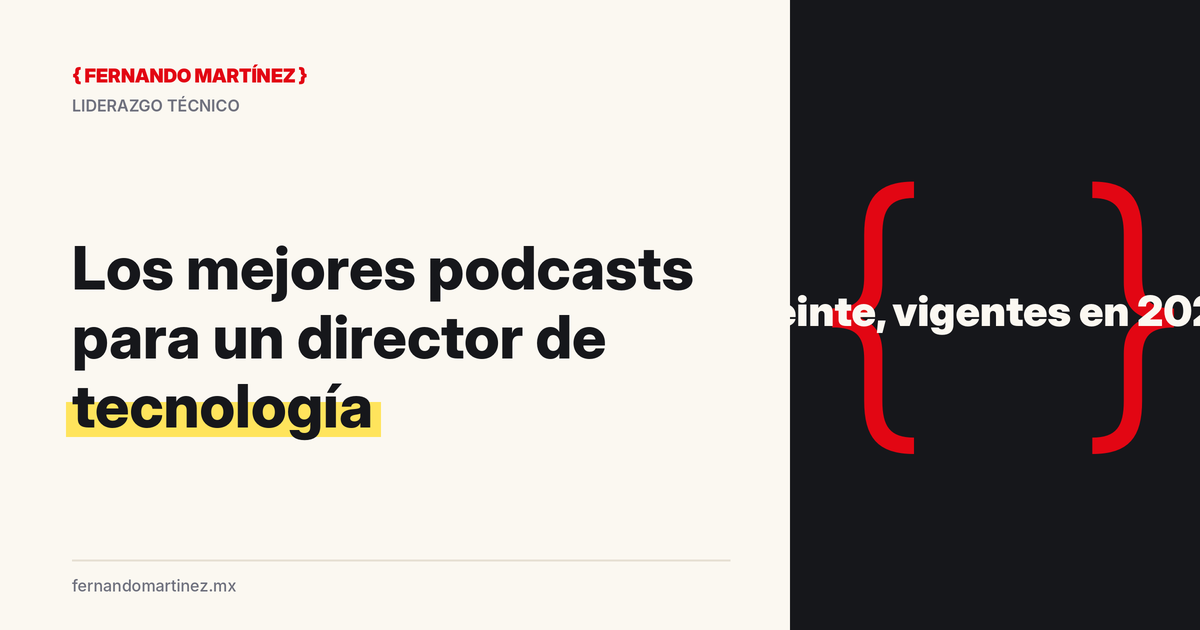
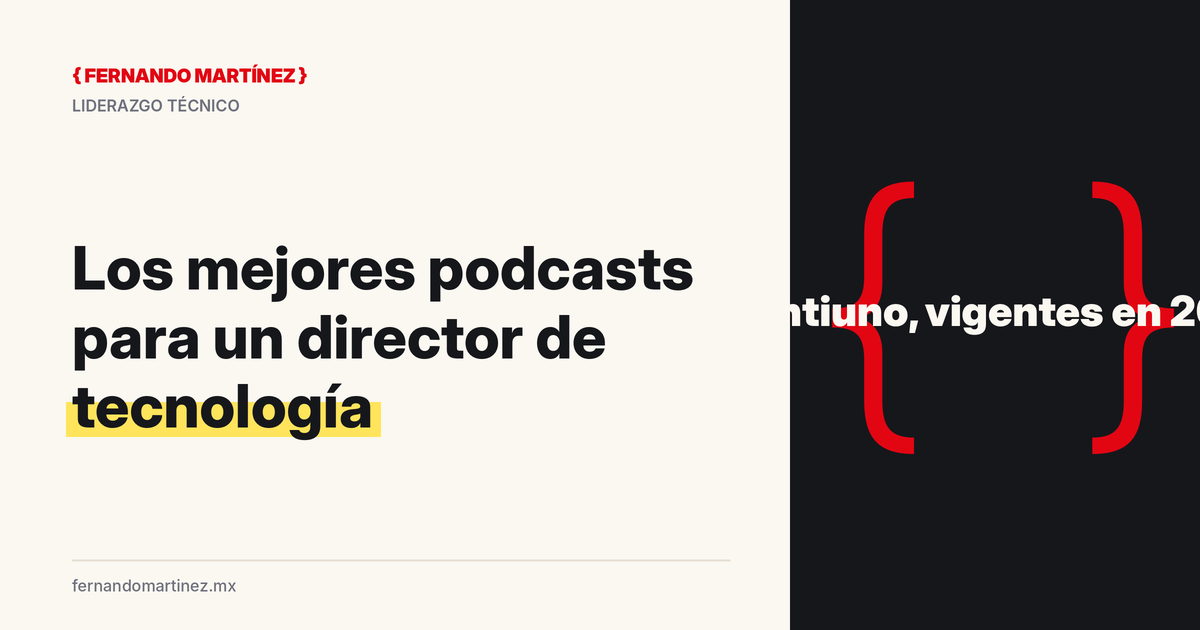
Podcasts para directores de tecnología: enlaces Spotify/Apple, Creativo, publicar
Claude-Session: https://claude.ai/code/session_01FrJ2hv2Ay8nZNKUo9uTLue

Changed region(s): [[0.6475, 0.4524, 1.0, 0.5429]]

diff --git a/content/blog/52-podcasts-para-cto.md b/content/blog/52-podcasts-para-cto.md
@@ -2,11 +2,11 @@
 title: "Los mejores podcasts para un director de tecnología (y la mayoría no son de tecnología)"
 slug: podcasts-para-directores-de-tecnologia
 type: post
-status: draft
-date: 2026-10-30 11:00
-excerpt: "Veinte podcasts que sí escucho como CTO: negocio, emprendimiento, criterio, dirigir ingenieros y filtrar la IA. Vigentes en 2026, y los que ya murieron."
+status: publish
+date: 2026-10-31 09:00
+excerpt: "Veintiún podcasts que sí escucho como CTO: negocio, emprendimiento, criterio, dirigir ingenieros y filtrar la IA. Vigentes en 2026, y los que ya murieron."
 seo_title: "Podcasts para directores de tecnología"
-seo_description: "Veinte podcasts que sí escucho como CTO: entender el negocio, emprender, pensar con criterio, dirigir ingenieros y filtrar el ruido de la IA. Activos en 2026."
+seo_description: "Veintiún podcasts que sí escucho como CTO: entender el negocio, emprender, pensar con criterio, dirigir ingenieros y filtrar el ruido de la IA. Activos hoy."
 focus_keyword: "podcasts para directores de tecnología"
 categories: [ventas-y-liderazgo]
 tags: [podcasts, CTO, liderazgo técnico, emprendimiento, creatividad, negocios, IA, aprendizaje]
@@ -22,7 +22,7 @@ Nada de eso lo aprendí en un curso de Kubernetes. Mucho lo aprendí manejando, 
 **La versión corta:**
 
 - Un CTO ya sabe de tecnología. Lo que le falta casi siempre es **negocio, criterio y gente**. Por eso la mitad de esta lista no habla de código.
-- Son veinte podcasts agrupados por lo que resuelven: entender cómo gana dinero una empresa, cómo se construye una, cómo pensar con más criterio, cómo dirigir ingenieros y cómo filtrar el ruido de la IA. Hay en inglés y en español.
+- Son veintiún podcasts agrupados por lo que resuelven: entender cómo gana dinero una empresa, cómo se construye una, cómo pensar con más criterio, cómo dirigir ingenieros y cómo filtrar el ruido de la IA. Hay en inglés y en español.
 - Todos siguen activos en octubre de 2026. Lo verifiqué porque la mayoría de las listas en internet recomiendan programas que llevan dos años muertos.
 - No hace falta escuchar todo. Elige uno por categoría y dale un mes.
 </div>
@@ -39,53 +39,55 @@ Esta lista está ordenada por esa lógica. Empieza por lo que menos tenemos y te
 
 ## Para entender cómo gana dinero una empresa
 
-**[Acquired](https://www.acquired.fm/)** (Ben Gilbert y David Rosenthal, en inglés). Una empresa por episodio, contada de principio a fin: Nvidia, Hermès, Nike, Costco. Duran de tres a cuatro horas y no sobra nada. Es la mejor clase de estrategia que conozco, y sale una vez al mes, así que cabe en la agenda. Spoiler: casi ninguna empresa gana por tener la mejor tecnología.
+**Acquired** ([Spotify](https://open.spotify.com/show/7Fj0XEuUQLUqoMZQdsLXqp) · [Apple](https://podcasts.apple.com/us/podcast/acquired/id1050462261)) (Ben Gilbert y David Rosenthal, en inglés). Una empresa por episodio, contada de principio a fin: Nvidia, Hermès, Nike, Costco. Duran de tres a cuatro horas y no sobra nada. Es la mejor clase de estrategia que conozco, y sale una vez al mes, así que cabe en la agenda. Spoiler: casi ninguna empresa gana por tener la mejor tecnología.
 
-**[Invest Like the Best](https://rephonic.com/podcasts/invest-like-the-best)** (Patrick O'Shaughnessy, en inglés). Entrevistas con inversionistas y operadores. Vale la pena porque te enseña cómo piensa la gente que pone el dinero, que es justo la gente a la que un CTO tiene que convencer cada año. Semanal, una hora.
+**Invest Like the Best** ([Spotify](https://open.spotify.com/show/22fi0RqfoBACCuQDv97wFO) · [Apple](https://podcasts.apple.com/us/podcast/invest-like-the-best-with-patrick-oshaughnessy/id1154105909)) (Patrick O'Shaughnessy, en inglés). Entrevistas con inversionistas y operadores. Vale la pena porque te enseña cómo piensa la gente que pone el dinero, que es justo la gente a la que un CTO tiene que convencer cada año. Semanal, una hora.
 
-**[Chisme Corporativo](https://rephonic.com/podcasts/chisme-corporativo)** (Macarena Riva y Rosalaura López, en español). Historias y modelos de negocio de empresas, contadas con humor y sin tecnicismos: Mondelēz, Oxxo, lo que se te ocurra. Es la mejor puerta de entrada en español para entender por qué una empresa existe y de qué vive. Semanal, una hora y pico.
+**Chisme Corporativo** ([Spotify](https://open.spotify.com/show/4zeEGCXH4Au4WdokuRvJHf) · [Apple](https://podcasts.apple.com/mx/podcast/chisme-corporativo/id1738102823)) (Macarena Riva y Rosalaura López, en español). Historias y modelos de negocio de empresas, contadas con humor y sin tecnicismos: Mondelēz, Oxxo, lo que se te ocurra. Es la mejor puerta de entrada en español para entender por qué una empresa existe y de qué vive. Semanal, una hora y pico.
 
-**[Freakonomics Radio](https://freakonomics.com/series/freakonomics-radio/)** (Stephen Dubner, en inglés). Economía aplicada a cosas cotidianas. Sirve para una sola habilidad, pero es la que más falta hace en tecnología: preguntar "¿y cuáles son los incentivos?" antes de proponer una solución.
+**Freakonomics Radio** ([Spotify](https://open.spotify.com/show/6z4NLXyHPga1UmSJsPK7G1) · [Apple](https://podcasts.apple.com/us/podcast/freakonomics-radio/id354668519)) (Stephen Dubner, en inglés). Economía aplicada a cosas cotidianas. Sirve para una sola habilidad, pero es la que más falta hace en tecnología: preguntar "¿y cuáles son los incentivos?" antes de proponer una solución.
 
 ## Para entender cómo se construye una empresa
 
-**[How I Built This](https://rephonic.com/podcasts/how-i-built-this-with-guy-raz)** (Guy Raz, en inglés). Fundadores contando cómo empezaron, con los errores incluidos. Lo que más me sirve son las partes donde el producto estaba listo y la empresa no vendía nada. Ahí vive el 80% de los problemas que llegan a mi escritorio.
+**How I Built This** ([Spotify](https://open.spotify.com/show/6E709HRH7XaiZrMfgtNCun) · [Apple](https://podcasts.apple.com/us/podcast/how-i-built-this-with-guy-raz/id1150510297)) (Guy Raz, en inglés). Fundadores contando cómo empezaron, con los errores incluidos. Lo que más me sirve son las partes donde el producto estaba listo y la empresa no vendía nada. Ahí vive el 80% de los problemas que llegan a mi escritorio.
 
-**[Masters of Scale](https://mastersofscale.com/)** (en inglés). Lo fundó Reid Hoffman; hoy la mayoría de los episodios los conducen Jeff Berman y Bob Safian, con Hoffman de invitado ocasional. Sigue siendo útil para una cosa: entender qué se rompe cuando una empresa crece y qué decisiones hay que tomar antes de que se rompa.
+**Masters of Scale** ([Spotify](https://open.spotify.com/show/1bJRgaFZHuzifad4IAApFR) · [Apple](https://podcasts.apple.com/us/podcast/masters-of-scale/id1227971746)) (en inglés). Lo fundó Reid Hoffman; hoy la mayoría de los episodios los conducen Jeff Berman y Bob Safian, con Hoffman de invitado ocasional. Sigue siendo útil para una cosa: entender qué se rompe cuando una empresa crece y qué decisiones hay que tomar antes de que se rompa.
 
-**[Itnig](https://itnig.net/podcast)** (Bernat Farrero y Jordi Romero, en español). Dos fundadores de empresas de software en Barcelona hablando de producto, ventas, levantar capital y contratar, con cifras reales de sus propias empresas. Es lo más cercano en español a escuchar cómo se dirige una empresa de tecnología desde adentro. Semanal.
+**Itnig** ([Spotify](https://open.spotify.com/show/75ao7vbM0cH7SKIsyYN3iZ) · [Apple](https://podcasts.apple.com/us/podcast/id1154542684)) (Bernat Farrero y Jordi Romero, en español). Dos fundadores de empresas de software en Barcelona hablando de producto, ventas, levantar capital y contratar, con cifras reales de sus propias empresas. Es lo más cercano en español a escuchar cómo se dirige una empresa de tecnología desde adentro. Semanal.
 
-**[Cracks](https://podnews.net/podcast/ikgy)** (Oso Trava, en español, México). Entrevistas largas con empresarios y profesionales mexicanos. Tiene episodios de todo tipo, algunos muy lejos de los negocios, así que hay que escoger. Los de fundadores de empresas mexicanas (Kavak, Grupo Hábita y varias más) valen la pena por el contexto local que ningún podcast gringo te va a dar.
+**Cracks** ([Spotify](https://open.spotify.com/show/3DhKkwcA6Pkl6s6xI1m9Im) · [Apple](https://podcasts.apple.com/mx/podcast/cracks-podcast-con-oso-trava/id1450858380)) (Oso Trava, en español, México). Entrevistas largas con empresarios y profesionales mexicanos. Tiene episodios de todo tipo, algunos muy lejos de los negocios, así que hay que escoger. Los de fundadores de empresas mexicanas (Kavak, Grupo Hábita y varias más) valen la pena por el contexto local que ningún podcast gringo te va a dar.
 
-**[Dementes](https://rephonic.com/podcasts/dementes)** (Diego Barrazas, en español, México). Más de 500 episodios con emprendedores y creadores latinoamericanos. Parecido a Cracks en formato, más enfocado en el camino personal de cada invitado. Semanal.
+**Dementes** ([Spotify](https://open.spotify.com/show/7fCg639qboFJEiOqgNexIc) · [Apple](https://podcasts.apple.com/mx/podcast/dementes/id1172443640)) (Diego Barrazas, en español, México). Más de 500 episodios con emprendedores y creadores latinoamericanos. Parecido a Cracks en formato, más enfocado en el camino personal de cada invitado. Semanal.
 
-**[Lenny's Podcast](https://rephonic.com/podcasts/lennys-podcast-product-growth-career)** (Lenny Rachitsky, en inglés). Técnicamente es de producto, pero lo pongo aquí porque un CTO que no entiende producto construye cosas que nadie usa. Entrevistas con quienes dirigen producto y crecimiento en empresas de software; últimamente, mucho de cómo cambia el trabajo con IA. Semanal, una hora.
+**Lenny's Podcast** ([Spotify](https://open.spotify.com/show/2dR1MUZEHCOnz1LVfNac0j) · [Apple](https://podcasts.apple.com/us/podcast/lennys-podcast-product-career-growth/id1627920305)) (Lenny Rachitsky, en inglés). Técnicamente es de producto, pero lo pongo aquí porque un CTO que no entiende producto construye cosas que nadie usa. Entrevistas con quienes dirigen producto y crecimiento en empresas de software; últimamente, mucho de cómo cambia el trabajo con IA. Semanal, una hora.
 
 ## Para pensar con más criterio (y un poco de creatividad)
 
-**[The Knowledge Project](https://fs.blog/knowledge-project-podcast/)** (Shane Parrish, en inglés). Cómo tomar decisiones. Sin fórmulas mágicas: modelos mentales, sesgos, cómo pensar bajo incertidumbre. Lo que un CTO hace todo el día sin que nadie se lo haya enseñado.
+**The Knowledge Project** ([Spotify](https://open.spotify.com/show/1VyK52NSZHaDKeMJzT4TSM) · [Apple](https://podcasts.apple.com/us/podcast/the-knowledge-project-with-shane-parrish/id990149481)) (Shane Parrish, en inglés). Cómo tomar decisiones. Sin fórmulas mágicas: modelos mentales, sesgos, cómo pensar bajo incertidumbre. Lo que un CTO hace todo el día sin que nadie se lo haya enseñado.
 
-**[Kaizen](https://podnews.net/podcast/iso4g)** (Jaime Rodríguez de Santiago, en español). Aprendizaje continuo: una idea por episodio, explicada con calma, a veces en veinte minutos y a veces en dos horas. Los episodios sobre ergodicidad, sistemas complejos y toma de decisiones deberían ser obligatorios antes de aprobar cualquier arquitectura. Semanal.
+**Kaizen** ([Spotify](https://open.spotify.com/show/09sG9kGWkQTmcraZSPiglB) · [Apple](https://podcasts.apple.com/us/podcast/kaizen-con-jaime-rodrguez-de-santiago/id1448683751)) (Jaime Rodríguez de Santiago, en español). Aprendizaje continuo: una idea por episodio, explicada con calma, a veces en veinte minutos y a veces en dos horas. Los episodios sobre ergodicidad, sistemas complejos y toma de decisiones deberían ser obligatorios antes de aprobar cualquier arquitectura. Semanal.
 
-**[Hidden Brain](https://hiddenbrain.org/)** (Shankar Vedantam, en inglés). Psicología aplicada: por qué la gente hace lo que hace. Ayuda a dirigir personas, que es la parte del trabajo para la que ningún ingeniero fue entrenado. Semanal, una hora.
+**Hidden Brain** ([Spotify](https://open.spotify.com/show/20Gf4IAauFrfj7RBkjcWxh) · [Apple](https://podcasts.apple.com/us/podcast/hidden-brain/id1028908750)) (Shankar Vedantam, en inglés). Psicología aplicada: por qué la gente hace lo que hace. Ayuda a dirigir personas, que es la parte del trabajo para la que ningún ingeniero fue entrenado. Semanal, una hora.
 
-**[Design Matters](https://www.designmattersmedia.com/)** (Debbie Millman, en inglés). Entrevistas con diseñadores, artistas y escritores sobre cómo construyen su vida creativa. Uno de los podcasts más viejos que existen (va por casi 700 episodios) y el que más me ha servido para una cosa concreta: recordar que el buen software también se diseña, no solo se programa.
+**Design Matters** ([Spotify](https://open.spotify.com/show/4dsmuZLxVGsXpQesSWrebO) · [Apple](https://podcasts.apple.com/us/podcast/design-matters-with-debbie-millman/id328074695)) (Debbie Millman, en inglés). Entrevistas con diseñadores, artistas y escritores sobre cómo construyen su vida creativa. Uno de los podcasts más viejos que existen (va por casi 700 episodios) y el que más me ha servido para una cosa concreta: recordar que el buen software también se diseña, no solo se programa.
 
-**[99% Invisible](https://99percentinvisible.org/)** (Roman Mars, en inglés). Historias sobre el diseño que no vemos: ciudades, objetos, sistemas. Media hora por episodio. La lección se repite: lo mejor diseñado es lo que nadie nota. Eso aplica a una banqueta y a una API.
+**Creativo** ([Spotify](https://open.spotify.com/show/5Wik1DfA7kLiqRP9wNwFap) · [Apple](https://podcasts.apple.com/mx/podcast/creativo/id1446811102)) (Roberto Martínez, en español, México). Entrevistas largas con creadores, empresarios y artistas, varias por semana y de hora y media para arriba. No es un podcast de negocios y por eso está aquí: escuchar cómo trabaja un cineasta o un comediante te saca de la lógica del sprint y te recuerda que las ideas buenas no salen de un tablero de Jira.
+
+**99% Invisible** ([Spotify](https://open.spotify.com/show/2VRS1IJCTn2Nlkg33ZVfkM) · [Apple](https://podcasts.apple.com/us/podcast/99-invisible/id394775318)) (Roman Mars, en inglés). Historias sobre el diseño que no vemos: ciudades, objetos, sistemas. Media hora por episodio. La lección se repite: lo mejor diseñado es lo que nadie nota. Eso aplica a una banqueta y a una API.
 
 ## Para dirigir ingenieros (el gremio)
 
-**[The Pragmatic Engineer Podcast](https://rephonic.com/podcasts/the-pragmatic-engineer-podcast)** (Gergely Orosz, en inglés). Cómo se construye software en las empresas grandes y en las startups, contado por quienes lo hacen. Es la extensión del boletín del mismo nombre. Si solo vas a escuchar uno de ingeniería, este. Más o menos semanal, hora y media.
+**The Pragmatic Engineer Podcast** ([Spotify](https://open.spotify.com/show/2Bho9xCbOQMWMJ7UKmqCzD) · [Apple](https://podcasts.apple.com/us/podcast/the-pragmatic-engineer/id1769051199)) (Gergely Orosz, en inglés). Cómo se construye software en las empresas grandes y en las startups, contado por quienes lo hacen. Es la extensión del boletín del mismo nombre. Si solo vas a escuchar uno de ingeniería, este. Más o menos semanal, hora y media.
 
-**[Modern CTO](https://rephonic.com/podcasts/modern-cto-with-joel-beasley)** (Joel Beasley, en inglés). Entrevistas con directores de tecnología sobre equipos, seguridad, IA y presupuesto. Casi mil episodios de 40 minutos, dos por semana. No todos son buenos; sí se puede filtrar por invitado.
+**Modern CTO** ([Spotify](https://open.spotify.com/show/62mwuSUjmcRQ9KAsPlkrKT) · [Apple](https://podcasts.apple.com/us/podcast/modern-cto/id1325942361)) (Joel Beasley, en inglés). Entrevistas con directores de tecnología sobre equipos, seguridad, IA y presupuesto. Casi mil episodios de 40 minutos, dos por semana. No todos son buenos; sí se puede filtrar por invitado.
 
 ## Para filtrar el ruido de la IA
 
-**[Latent Space](https://www.latent.space/)** (swyx y compañía, en inglés). El podcast de la gente que construye con modelos de IA, no de la que opina sobre ellos. Técnico, denso, con entrevistas a quienes hacen los modelos y las herramientas. Es el mejor antídoto contra las demos: después de un episodio sabes qué es posible hoy y qué sigue siendo promesa.
+**Latent Space** ([Spotify](https://open.spotify.com/show/2p7zZVwVF6Yk0Zsb4QmT7t) · [Apple](https://podcasts.apple.com/us/podcast/latent-space-the-ai-engineer-podcast/id1674008350)) (swyx y compañía, en inglés). El podcast de la gente que construye con modelos de IA, no de la que opina sobre ellos. Técnico, denso, con entrevistas a quienes hacen los modelos y las herramientas. Es el mejor antídoto contra las demos: después de un episodio sabes qué es posible hoy y qué sigue siendo promesa.
 
-**[Dwarkesh Podcast](https://www.dwarkesh.com/)** (Dwarkesh Patel, en inglés). Entrevistas largas y muy preparadas con investigadores de IA, economistas e historiadores. No es para el camino al trabajo; es para una tarde con libreta. Sale cada dos o tres semanas.
+**Dwarkesh Podcast** ([Spotify](https://open.spotify.com/show/4JH4tybY1zX6e5hjCwU6gF) · [Apple](https://podcasts.apple.com/us/podcast/dwarkesh-podcast/id1516093381)) (Dwarkesh Patel, en inglés). Entrevistas largas y muy preparadas con investigadores de IA, economistas e historiadores. No es para el camino al trabajo; es para una tarde con libreta. Sale cada dos o tres semanas.
 
-**[Hard Fork](https://rephonic.com/podcasts/sway)** (New York Times, en inglés). Noticias de tecnología e IA de la semana, con contexto. Aviso: Kevin Roose y Casey Newton dejaron el programa en agosto de 2026 y hoy lo conduce un invitado mientras el Times busca conductores permanentes. Sigue siendo la forma más rápida de saber qué pasó esta semana sin leer veinte notas.
+**Hard Fork** ([Spotify](https://open.spotify.com/show/44fllCS2FTFr2x2kjP9xeT) · [Apple](https://podcasts.apple.com/us/podcast/hard-fork/id1528594034)) (New York Times, en inglés). Noticias de tecnología e IA de la semana, con contexto. Aviso: Kevin Roose y Casey Newton dejaron el programa en agosto de 2026 y hoy lo conduce un invitado mientras el Times busca conductores permanentes. Sigue siendo la forma más rápida de saber qué pasó esta semana sin leer veinte notas.
 
 ## Los que se quedaron fuera (y por qué)
 
